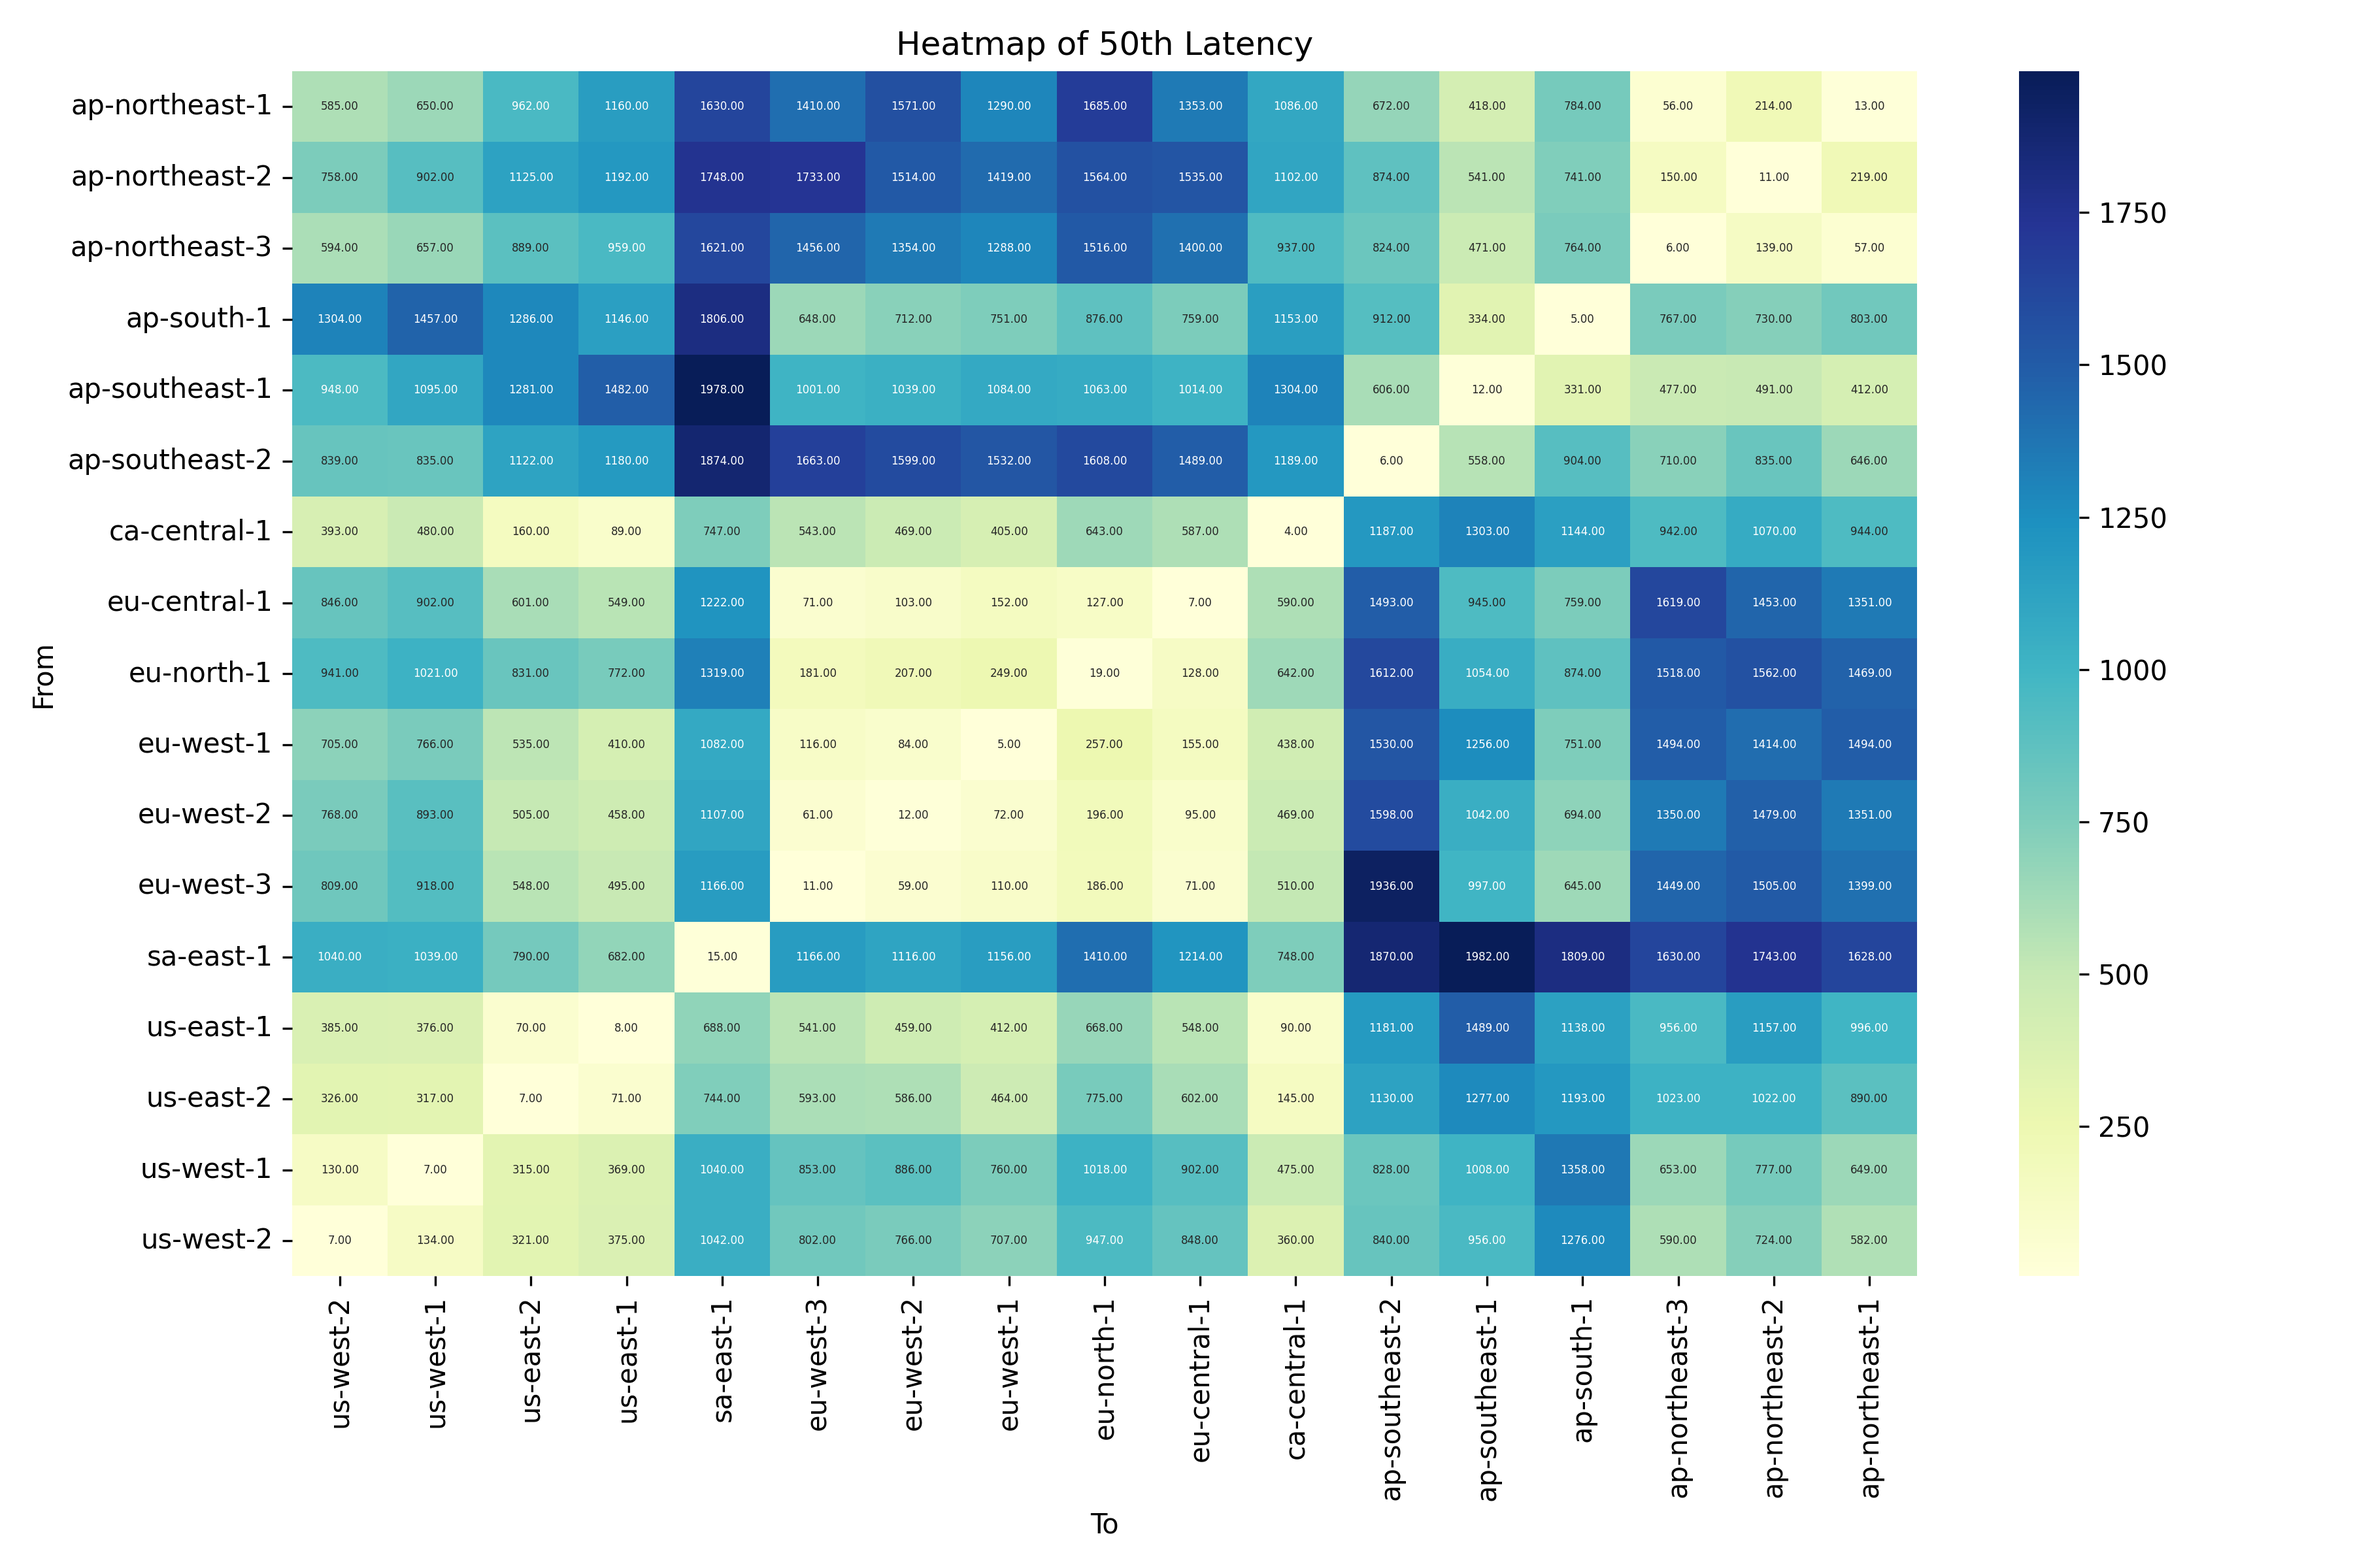
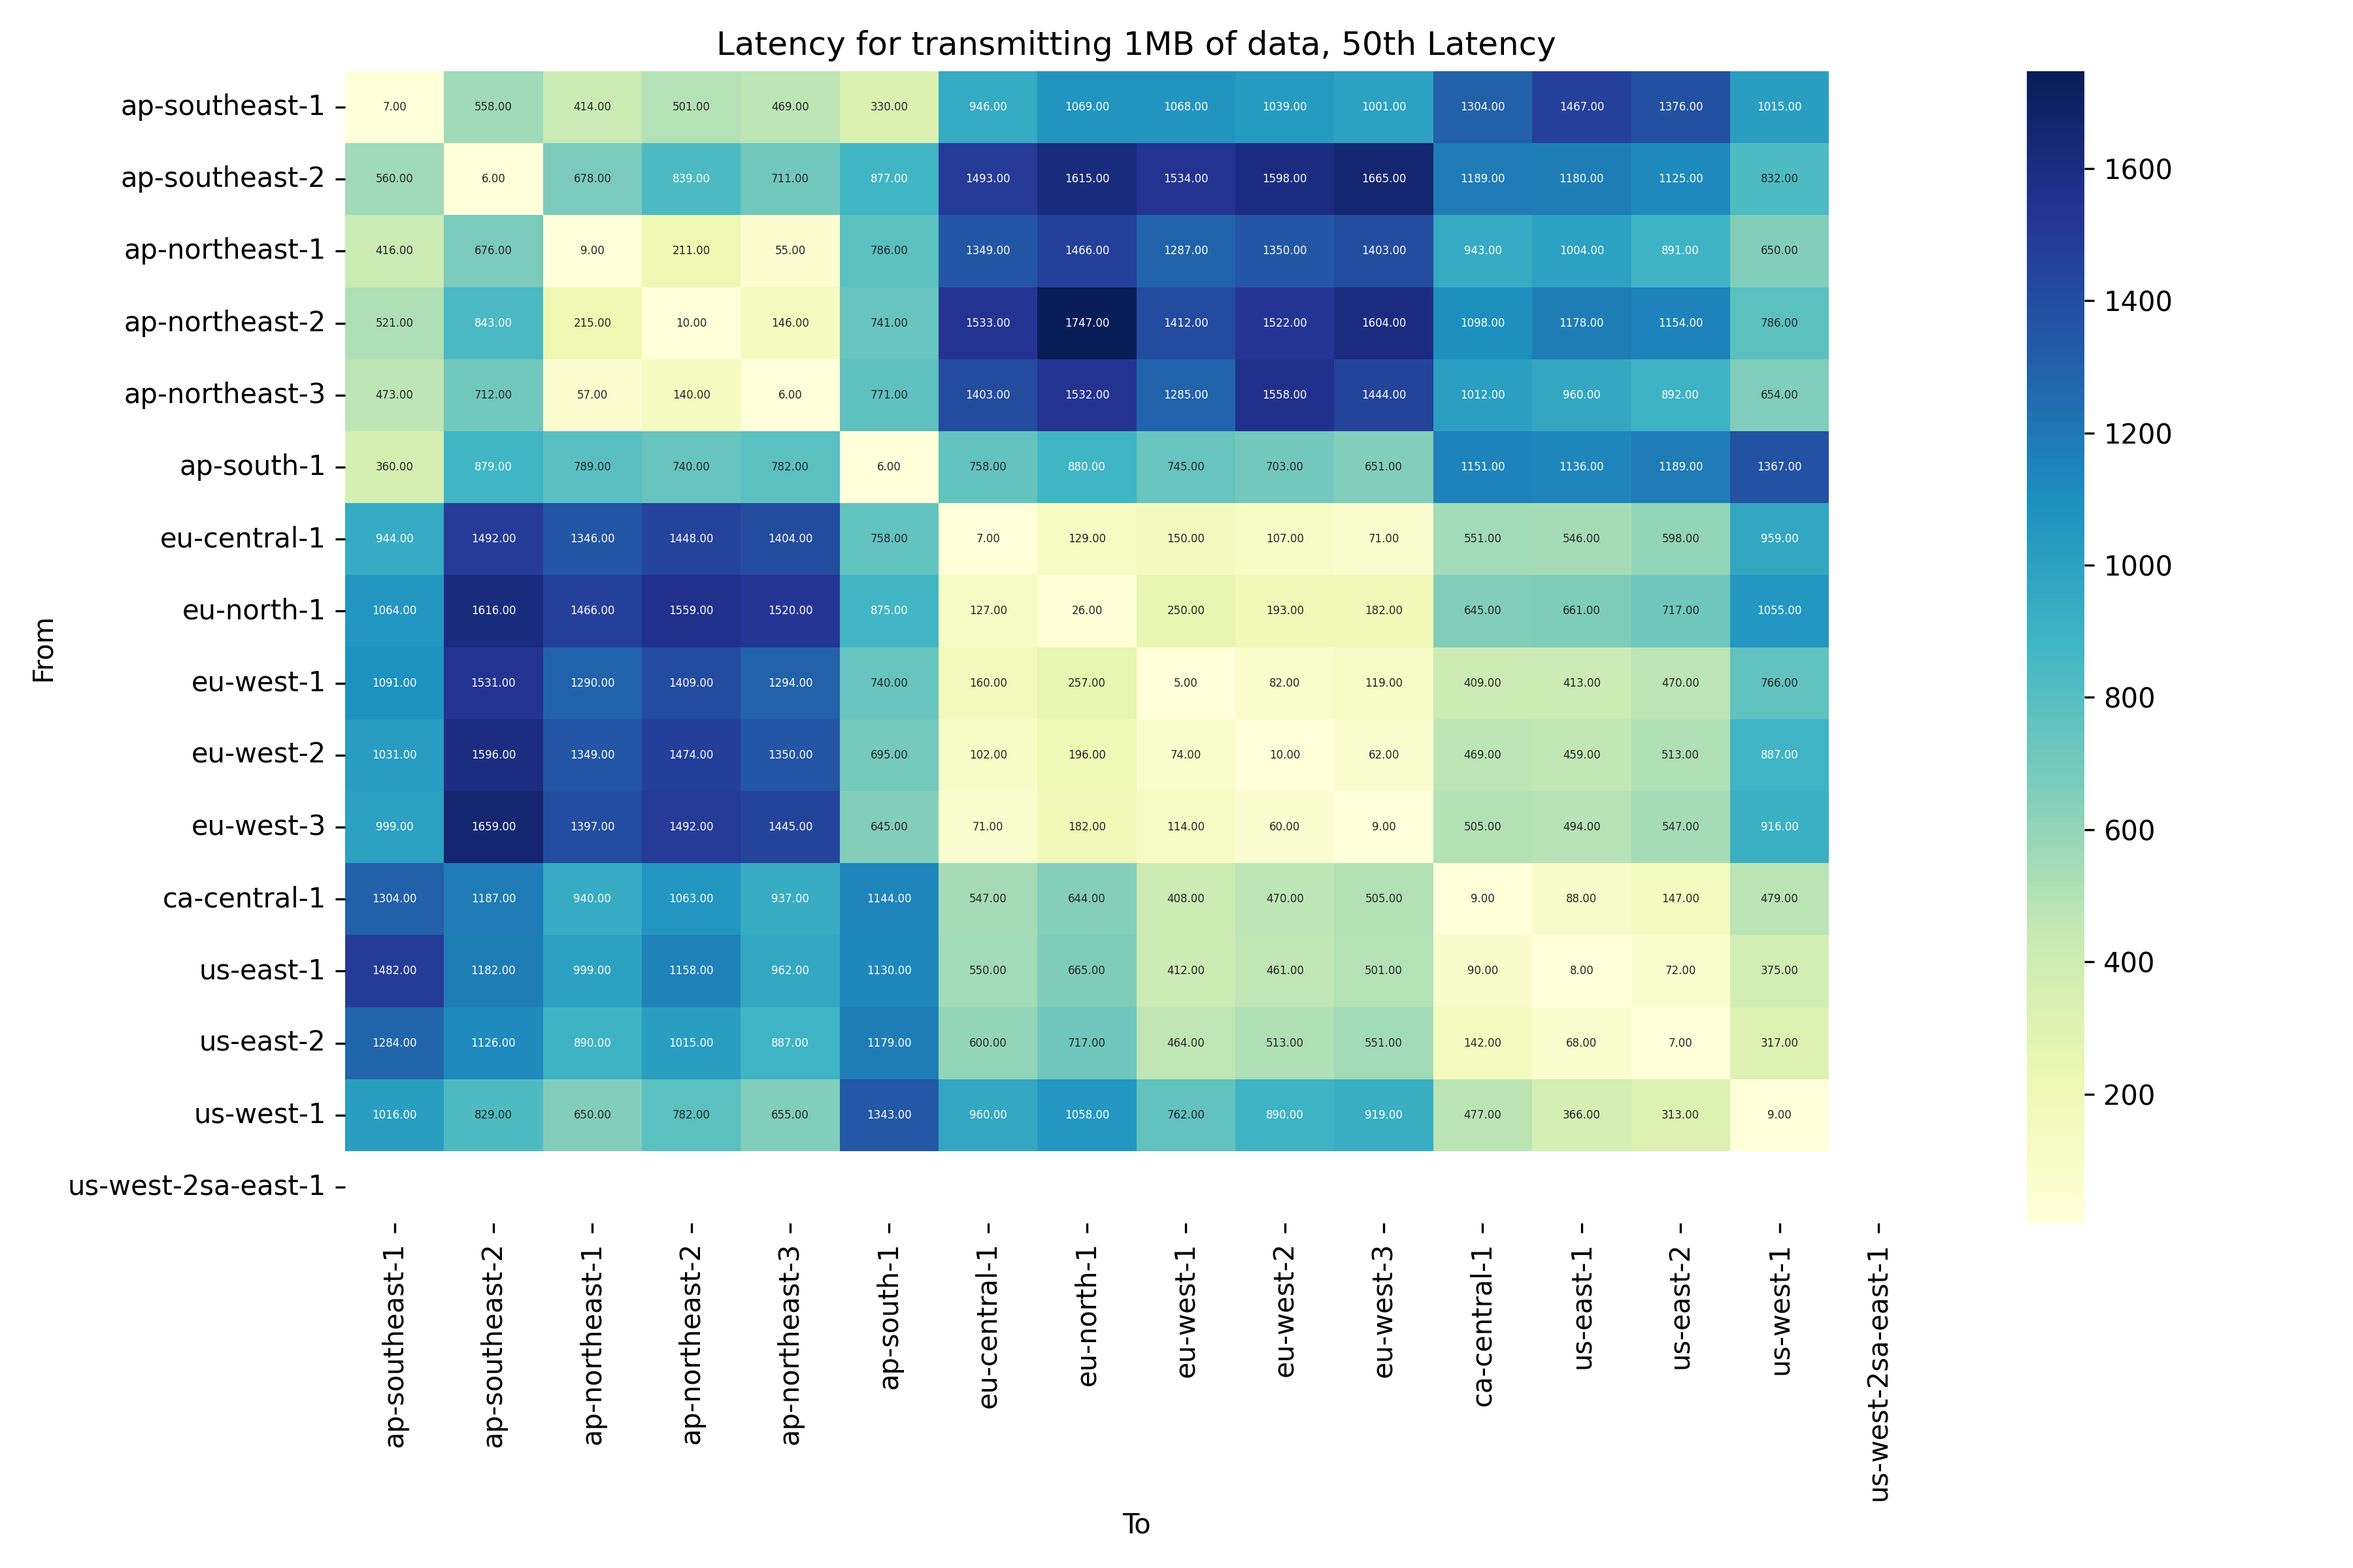
Add gitignore for plots and update datacenter_grid_co2_table_setup.sh

diff --git a/multi_x_serverless/global_routing/internal/solver/playground.py b/multi_x_serverless/global_routing/internal/solver/playground.py
@@ -10,26 +10,23 @@ from multi_x_serverless.global_routing.internal.solver.chalicelib.utils import D
 NUMBER_OF_REGIONS = 10
 NUMBER_OF_FUNCTIONS = 5
 
-
-dag = nx.DiGraph()
-for i in range(NUMBER_OF_FUNCTIONS):
-    dag.add_node(i)
-
-for node in range(NUMBER_OF_FUNCTIONS - 1):
-    while True:
-        next_node = random.choice(range(NUMBER_OF_FUNCTIONS))
-        if next_node != node and not nx.has_path(dag, next_node, node):
-            break
-    dag.add_edge(node, next_node)
-
-build_dag = MagicMock(return_value=dag)
-
 COST_CONSTRAINT = 100000
 RUNTIME_CONSTRAINT = 100000
 CARBON_CONSTRAINT = 100000
 
 workflow_description = {
-    "functions": [{"name": i, } for i in range(NUMBER_OF_FUNCTIONS)],
+    "functions": [
+        {
+            "name": i,
+            "resource_request": {
+                "vCPU": 1,
+                "memory": 128,
+                "architecture": "x86_64",
+            },
+            "estimated_invocations_per_month": 100000,
+        }
+        for i in range(NUMBER_OF_FUNCTIONS)
+    ],
     "start_hop": DEFAULT_REGION,
     "constraints": {
         "cost": COST_CONSTRAINT,
@@ -43,21 +40,35 @@ function_data_transfer_size_measurements = {i: random.randint(1, 10) for i in ra
 
 print("Starting to find viable deployment options")
 
+
 # Call the find_viable_deployment_options function
 @patch("multi_x_serverless.global_routing.internal.solver.solver.get_dag")
 def test_find_viable_deployment_options(mock_get_dag: MagicMock) -> None:
+    dag = nx.DiGraph()
+    for i in range(NUMBER_OF_FUNCTIONS):
+        dag.add_node(i)
+
+    for node in range(NUMBER_OF_FUNCTIONS - 1):
+        while True:
+            next_node = random.choice(range(NUMBER_OF_FUNCTIONS))
+            if next_node != node and not nx.has_path(dag, next_node, node):
+                break
+        dag.add_edge(node, next_node)
+
+    mock_get_dag.return_value = dag
+
     regions = get_regions()
     regions = [region for region in regions if region[0] not in OPT_IN_REGIONS]
     regions = regions[:NUMBER_OF_REGIONS]
     viable_options = find_viable_deployment_options(
         regions, function_runtime_measurements, function_data_transfer_size_measurements, workflow_description
     )
-    print(len(viable_options))
 
     # Assert the expected results
     for option in viable_options:
         assert option[1] <= COST_CONSTRAINT
         assert option[2] <= RUNTIME_CONSTRAINT
         assert option[3] <= CARBON_CONSTRAINT
+
 
 test_find_viable_deployment_options()

diff --git a/multi_x_serverless/global_routing/internal/solver/chalicelib/carbon.py b/multi_x_serverless/global_routing/internal/solver/chalicelib/carbon.py
@@ -5,7 +5,7 @@ from .utils import (
     GRID_CO2_TABLE_NAME,
     TRANSMISSION_CO2_TABLE_NAME,
     get_item_from_dynamodb,
-    AWS
+    AWS,
 )
 
 
@@ -17,8 +17,12 @@ def get_execution_carbon_for_region_function(region_provider: tuple[str, str]) -
         table = AWS_DATACENTER_INFO_TABLE_NAME
     datacenter_data = get_item_from_dynamodb({"region_code": region, "provider": provider}, table)
     grid_co2_data = get_item_from_dynamodb(
-        {"region_code": region, "provider": provider}, GRID_CO2_TABLE_NAME, limit=1, order="desc"
+        {"region_code_provider": region + ":" + provider}, GRID_CO2_TABLE_NAME, limit=1, order="desc"
     )
+    if len(grid_co2_data) > 0:
+        grid_co2_data = grid_co2_data[0]
+    else:
+        raise Exception(f"Could not find data for region {region} and provider {provider}")
 
     def cost(
         function_spec: dict,
@@ -28,9 +32,6 @@ def get_execution_carbon_for_region_function(region_provider: tuple[str, str]) -
     ) -> float:
         # TODO: This might profit from caching
         if datacenter_data and grid_co2_data:
-            datacenter_data = datacenter_data["data"]
-            grid_co2_data = grid_co2_data["data"]
-
             runtime_in_hours = (
                 (sum(function_runtime_measurements) / len(function_runtime_measurements)) / 1000 / 60 / 60
             )  # ms -> h
@@ -71,6 +72,7 @@ def get_execution_carbon_matrix(regions: list[tuple[str, str]], number_of_functi
         execution_carbon_matrix.append([])
         for region_provider in regions:
             execution_carbon_matrix[i].append(get_execution_carbon_for_region_function(region_provider))
+            break
     return execution_carbon_matrix
 
 
@@ -87,8 +89,7 @@ def get_transmission_carbon_coefficient_for_region_and_destination_region(
 
     if len(transmission_co2_data) == 0:
         return 100.0  # Assume a high transmission carbon if we don't have the data
-    print(transmission_co2_data)
-    return transmission_co2_data["data"]["carbon_intensity"]
+    return transmission_co2_data[0]["carbon_intensity"]
 
 
 def get_transmission_carbon_matrix(regions: list[tuple[str, str]]) -> list[list[float]]:

diff --git a/multi_x_serverless/global_routing/internal/solver/solver.py b/multi_x_serverless/global_routing/internal/solver/solver.py
@@ -10,8 +10,8 @@ from .chalicelib.utils import get_dag, ENERGY_CONSUMPTION_PER_GB
 
 def find_viable_deployment_options(  # pylint: disable=too-many-locals
     regions: list[tuple[str, str]],
-    function_runtime_measurements: dict,
-    function_data_transfer_size_measurements: dict,
+    function_runtime_measurements: dict[str, list[float]],
+    function_data_transfer_size_measurements: dict[str, list[float]],
     workflow_description: dict,
 ) -> list[tuple[dict, float, float, float]]:
     # First we build the DAG and some auxiliary data structures
@@ -72,7 +72,7 @@ def find_viable_deployment_options(  # pylint: disable=too-many-locals
 
                 for predecessor in dag.predecessors(function):
                     transmission_latency = (
-                        # latency_matrix[region_to_index[deployment_option[0][predecessor]]][region_to_index[region]]
+                        latency_matrix[region_to_index[deployment_option[0][predecessor]]][region_to_index[region]]
                     ) * function_data_transfer_size_measurements[function]
                     # (gCO2) = (Data Size in GB) * (Energy Consumption per GB) * (CO2 Emissions per kWh) * (Latency in hours)
                     # Where (CO2 Emissions per kWh) are calculated as a coefficient in the transmission carbon matrix
@@ -110,6 +110,8 @@ def find_viable_deployment_options(  # pylint: disable=too-many-locals
 
                 new_deployment_option[0][function] = region
                 new_deployment_options.append(new_deployment_option)
+        
+        print(new_deployment_options)
 
         # We only keep the viable deployment options
         new_deployment_options = [

diff --git a/multi_x_serverless/global_routing/internal/solver/chalicelib/utils.py b/multi_x_serverless/global_routing/internal/solver/chalicelib/utils.py
@@ -13,18 +13,19 @@ LATENCY_TABLE_NAME = "multi-x-serverless-network-latencies"
 ENERGY_CONSUMPTION_PER_GB = 0.001
 AWS = "aws"
 OPT_IN_REGIONS = [
-    'af-south-1',
-    'ap-east-1',
-    'ap-south-2',
-    'ap-southeast-3',
-    'ap-southeast-4',
-    'eu-south-1',
-    'eu-south-2',
-    'eu-central-2',
-    'me-south-1',
-    'me-central-1',
-    'il-central-1'
+    "af-south-1",
+    "ap-east-1",
+    "ap-south-2",
+    "ap-southeast-3",
+    "ap-southeast-4",
+    "eu-south-1",
+    "eu-south-2",
+    "eu-central-2",
+    "me-south-1",
+    "me-central-1",
+    "il-central-1",
 ]
+
 
 def get_item_from_dynamodb(key: dict, table_name: str, limit: int = -1, order: str = "asc") -> dict:
     """
@@ -45,9 +46,7 @@ def get_item_from_dynamodb(key: dict, table_name: str, limit: int = -1, order: s
         if order == "asc":
             response = table.query(KeyConditionExpression=reduce(lambda x, y: x & y, key_conditions), Limit=limit)
         elif order == "desc":
-            response = table.query(
-                KeyConditionExpression=reduce(lambda x, y: x & y, key_conditions), Limit=limit, ScanIndexForward=False
-            )
+            response = table.query(KeyConditionExpression=reduce(lambda x, y: x & y, key_conditions), Limit=limit, ScanIndexForward=False)
 
     if "Items" in response:
         return response["Items"]

diff --git a/plotting/latencies.py b/plotting/latencies.py
@@ -95,11 +95,25 @@ df[latency_columns] = df[latency_columns].apply(pd.to_numeric, errors="coerce")
 # Create a pivot table
 pivot_df = df.pivot_table(index="From", columns="To")
 
+order = [
+    'ap-southeast-1', 'ap-southeast-2',  # Asia Pacific (Singapore, Sydney)
+    'ap-northeast-1', 'ap-northeast-2', 'ap-northeast-3',  # Asia Pacific (Tokyo, Seoul, Osaka)
+    'ap-south-1',  # Asia Pacific (Mumbai)
+    'eu-central-1',  # EU (Frankfurt)
+    'eu-north-1',  # EU (Stockholm)
+    'eu-west-1', 'eu-west-2', 'eu-west-3',  # EU (Ireland, London, Paris)
+    'ca-central-1',  # Canada (Central)
+    'us-east-1', 'us-east-2',  # US East (N. Virginia, Ohio)
+    'us-west-1', 'us-west-2'  # US West (N. California, Oregon)
+    'sa-east-1',  # South America (Sao Paulo)
+]
+
 for metric in metrics:
     plt.figure(figsize=(12, 8))
-    sns.heatmap(pivot_df[metric], annot=True, fmt=".2f", cmap="YlGnBu", annot_kws={"size": 4})
-    plt.title(f"Heatmap of {metric}")
-    plt.gca().invert_xaxis()
+    local_df = pivot_df[metric].copy()
+    local_df = local_df.reindex(index=order, columns=order)
+    sns.heatmap(local_df, annot=True, fmt=".2f", cmap="YlGnBu", annot_kws={"size": 4})
+    plt.title(f"Latency for transmitting 1MB of data, {metric}")
     plt.tight_layout()
 
     plt.savefig(f"plots/latencies_{metric}.png", dpi=300)

diff --git a/multi_x_serverless/global_routing/internal/solver/chalicelib/cost.py b/multi_x_serverless/global_routing/internal/solver/chalicelib/cost.py
@@ -16,9 +16,8 @@ def get_cost_for_region_function(region_provider: tuple[str, str]) -> Callable:
     ) -> float:
         # TODO: This might profit from caching
         if datacenter_data:
-            datacenter_data = datacenter_data["data"]
-            free_invocations = int(datacenter_data["free_invocations"]["N"])
-            free_compute_gb_s = int(datacenter_data["free_compute_gb_s"]["N"])
+            free_invocations = int(datacenter_data["free_invocations"])
+            free_compute_gb_s = int(datacenter_data["free_compute_gb_s"])
 
             if "architecture" in function_spec["resource_request"]:
                 architecture = function_spec["resource_request"]["architecture"]
@@ -27,7 +26,7 @@ def get_cost_for_region_function(region_provider: tuple[str, str]) -> Callable:
 
             estimated_number_of_requests_per_month = function_spec["estimated_invocations_per_month"]
 
-            invocation_cost = float(datacenter_data["invocation_cost_" + architecture]["N"])
+            invocation_cost = float(datacenter_data["invocation_cost_" + architecture])
 
             if estimated_number_of_requests_per_month > free_invocations:
                 invocation_cost = invocation_cost * (

diff --git a/multi_x_serverless/global_routing/internal/trackers/datacenter_co2/grid_co2_tracker/app.py b/multi_x_serverless/global_routing/internal/trackers/datacenter_co2/grid_co2_tracker/app.py
@@ -62,8 +62,7 @@ def update_datacenter_grid_co2() -> None:
             {
                 "PutRequest": {
                     "Item": {
-                        "region_code": {"S": region},
-                        "provider": {"S": provider},
+                        "region_code_provider": {"S": region + ":" + provider},
                         "timestamp": {
                             "S": get_current_time(),
                         },
